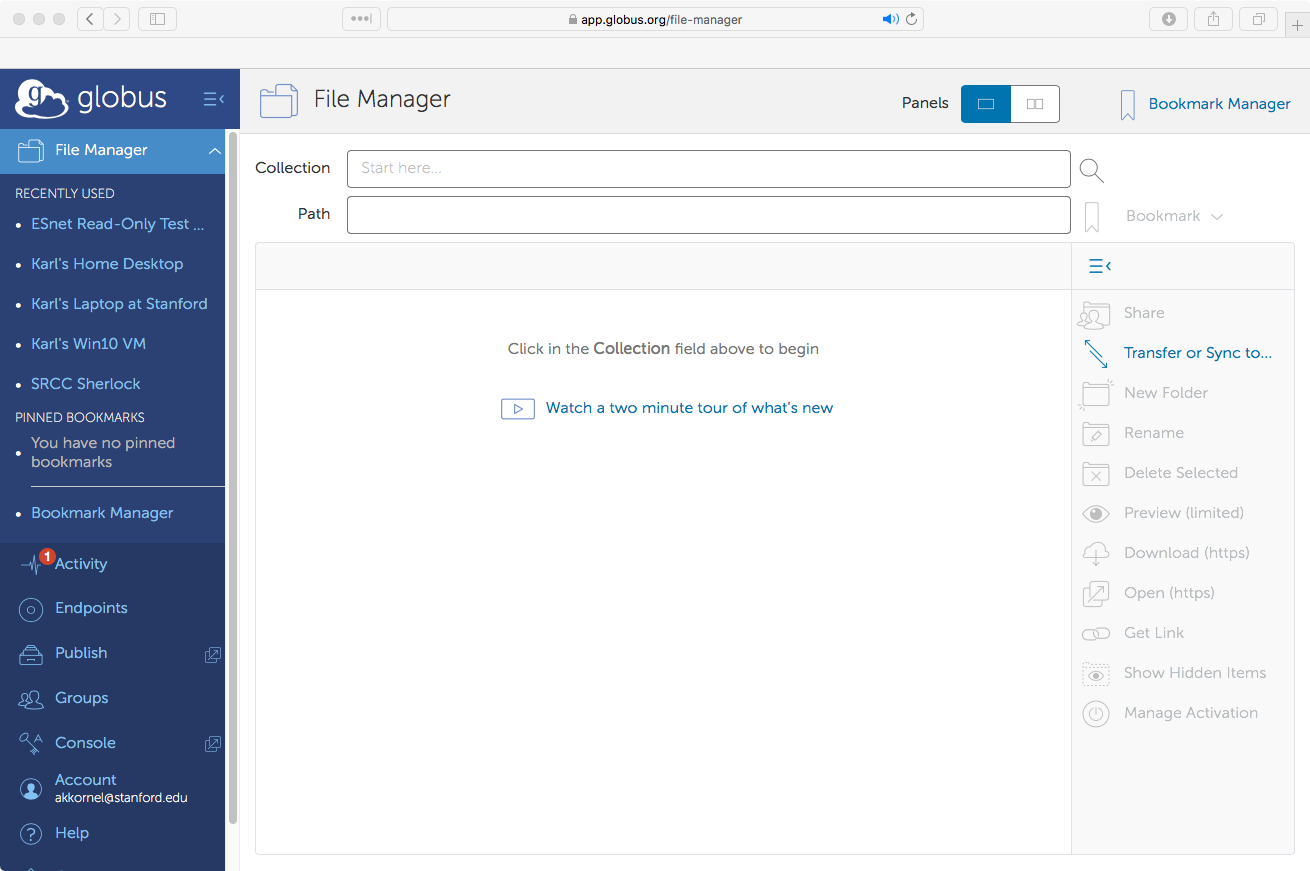
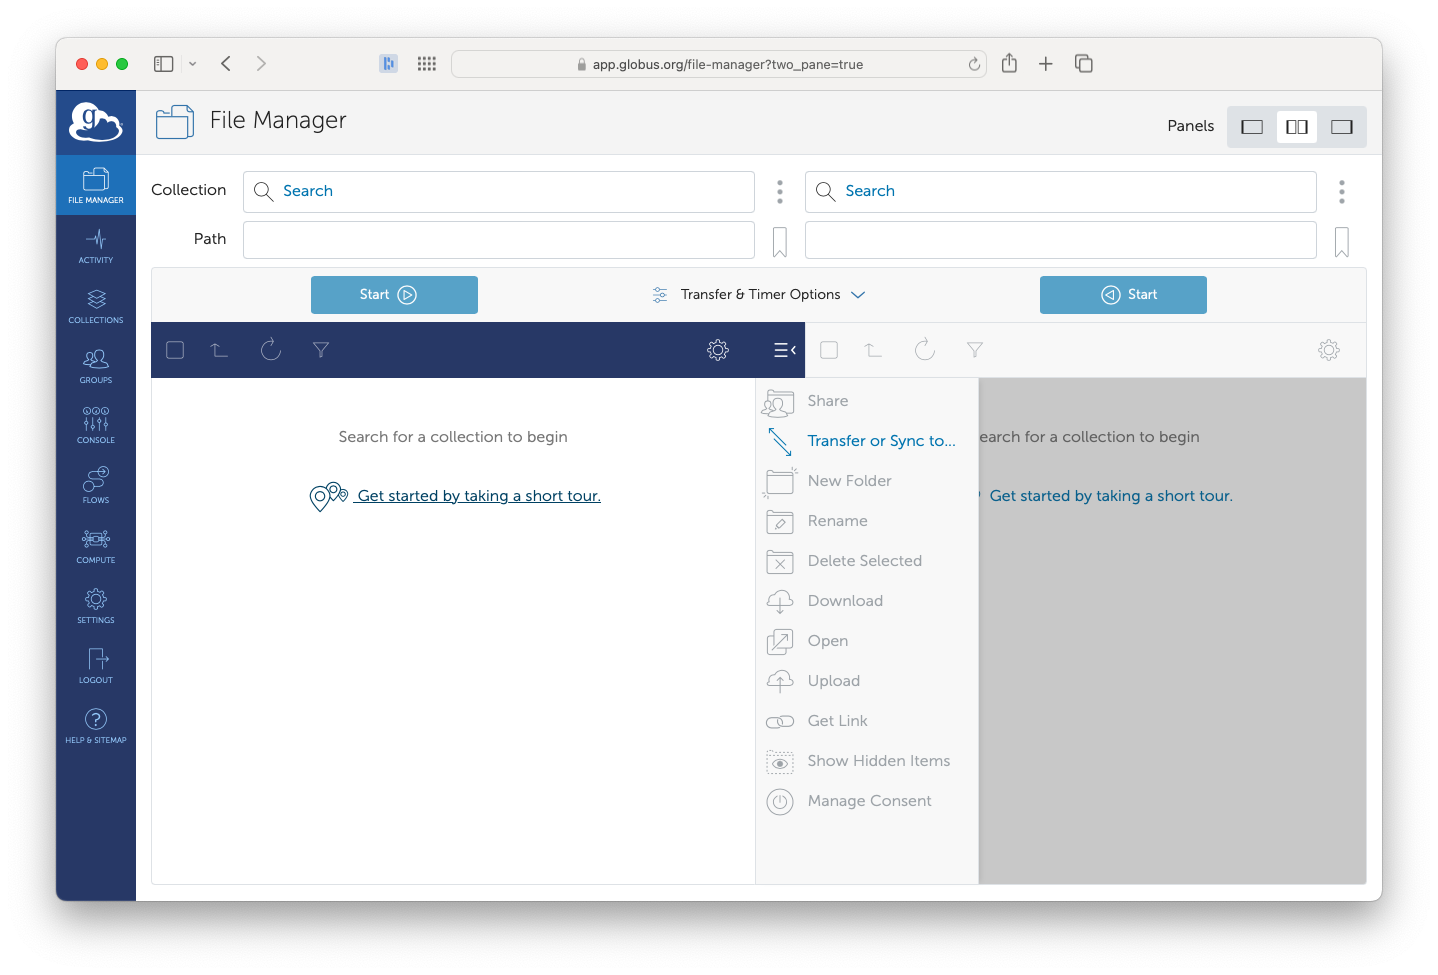
Accounts: Update images, and accompanying text
The Globus web app has gone through some UI changes.  This commit
updates a number of Account-related images, and the text referencing
those images.

diff --git a/accounts/unlink.md b/accounts/unlink.md
@@ -29,42 +29,49 @@ When you do find yourself needing to unlink an identity, follow this procedure.
 %}
 
 To unlink an identity, [log in to Globus](https://app.globus.org/)
-and click on the **<i class="fas fa-user-circle"></i> Account** link (near the bottom-right corner of the page).
+and click on the **<i class="fas fa-user-circle"></i> Settings** button (on the
+left-side column of buttons, near the bottom).
 
 {% include hero-image.html
    src="/assets/accounts/TransferPage.png"
    alt="Globus transfer screen"
    caption-overlay=true
    caption-header="The Globus 'Transfer Files' screen"
-   caption-text="The 'Account' link is in the bottom-left corner of the page."
+   caption-text="The 'Settings' button is near the bottom-left corner of the page."
 %}
 
-The Account page displays your primary and linked identities.  Near the
-upper-right of the page, locate and click on the **<i class="fas fa-id-card"></i> Manage Identities** link.
+On the Settings page will be a list of your identities, both primary and
+linked.  Your primary identity will have a <i class="fas fa-crown"
+title="crown"></i> symbol next to it.
 
 {% include hero-image.html
    src="/assets/accounts/AccountManagement.png"
    alt="Globus transfer screen"
    caption-overlay=true
-   caption-header="The Globus 'Account' screen"
-   caption-text="The 'Manage Your Identities' link is in the upper-right quadrant of the screen."
+   caption-header="The Globus Settings page, showing the Account tab"
+   caption-text="This user has four identities.  'akkornel@stanford.edu' is the
+   primary identity; the others are linked identities."
 %}
 
+Although this page lists your identities, it does not allow you to manage them.
+To manage your identities, click on the **Manage Identities** button (on the
+top-right part of the page).
+
 You will be taken to a page listing all of your identities.  Each linked
-identity will have a large <i class="fas fa-times" title="letter X"></i> to the
+identity will have a <i class="fas fa-trash-alt" title="trash can"></i> to the
 right of the identity.
 
 {% include hero-image.html
    src="/assets/accounts/Identities.png"
    alt="Globus account identities screen"
    caption-overlay=true
-   caption-header="The Globus 'Identities' list"
-   caption-text="Click on the letter X to delete an identity."
+   caption-header="The Globus Manage Identities page"
+   caption-text="Click on the trash can to delete an identity."
 %}
 
 Locate the identity you wish to remove, and click on the <i class="fas
-fa-times" title="letter X"></i>.  You will then be asked if you are sure about
-unlinking the identity.
+fa-trash-alt" title="trash can"></i>.  You will then be asked if you are sure
+about unlinking the identity.
 
 {% include hero-image.html
    src="/assets/accounts/UnlinkingConfirmation.png"
@@ -102,22 +109,29 @@ this whenever you change your primary institutional affiliation.
    content="The steps below will cause all transfer and endpoint history to be lost.  Endpoints will also be deactivated, so you will have to sign into them again.  You should make a note of endpoints that you do not control, but which you have recently used, to reactivate them later."
 %}
 
-### Step 1: Check Your Endpoints
+### Step 1a: Check Your Admin Access
 
-Check all of the endpoints (including shared endpoints) you administer, making sure that your
-_current_ primary identity is on the list of administrators.  Globus Connect
-Personal endpoints—and shared endpoints created from Globus Connect Personal
-endpoints—are excluded from this step, because they can not have multiple
-administrators.
+If you are an owner or administrator of any Globus Connect Server endpoints, or
+of any Mapped Collections, consider adding a coworker (or a Globus Group
+containing one or more coworkers) as an Administrator.  This will ensure admin
+access can be maintained during the transition.
 
 {% include hero-image.html
    src="/assets/server/EndpointRoles.png"
-   alt="A Globus Connect Personal endpoint, showing the list of roles."
+   alt="A Globus Connect Server endpoint, showing the list of roles."
    caption-overlay=false
-   caption-header="An example Globus Connect Personal endpoint"
+   caption-header="An example Globus Connect Server endpoint"
    caption-text="This is where you should check administrators.  This is a
-   Globus Connect Personal endpoint, so only one administrator is allowed."
+   Globus Connect Server endpoint, with multiple administrators."
 %}
+
+### Step 1b: Check Your GCP
+
+If you are running Globus Connect Personal (GCP), it will remain associated
+with whichever Globus Identity you selected when you installed it.  It is not
+possible to change the ownership of a Globus Connect Personal installation, so
+if you want it associated with a new owner, you will have to do a fresh
+installation of GCP.
 
 ### Step 2: Unlink All Linked Identities
 
@@ -142,12 +156,7 @@ to link all of your other identities to your new primary identity.
 
 ### Step 5: Log in to Third-Party Sites
 
-If you had any third-party sites or program that used your Globus credentials,
+If you had any third-party sites or programs that used your Globus credentials,
 you will need to log back in to them, so that fetch new Globus credentials.
 
-Congratulations, the identity-demotion process is complete!  You may now
-re-activate endpoints, and return to normal life.
-
-
-
-
+Congratulations, the identity-demotion process is complete!

diff --git a/accounts/link.md b/accounts/link.md
@@ -35,31 +35,34 @@ are not already logged in, then you will be presented with the login page:
    caption-text=""
 %}
 
-Log in as normal, and you will arrive at the transfer page:
+Log in as normal, and you will arrive at the File Manager:
 
 {% include hero-image.html
    src="/assets/accounts/TransferPage.png"
    alt="Globus transfer screen"
    caption-overlay=true
-   caption-header="The Globus 'Transfer Files' screen"
+   caption-header="The Globus File Manager"
    caption-text=""
 %}
 
-Click on the **<i class="fas fa-user-circle"></i> Account** option (near the bottom-left corner of the page).  This will
-take you to the Account Management page:
+Click on the **<i class="fas fa-cog"></i> Settings** button (near the
+bottom-left corner of the page).  This will take you to the Account tab on the
+Settings page:
 
 {% include hero-image.html
    src="/assets/accounts/AccountManagement.png"
    alt="Globus Account Management"
    caption-overlay=true
    caption-header="Account Management"
-   caption-text="All linked identites, and Globus Plus status, are displayed here."
+   caption-text="Your primary and all linked identites are displayed here."
 %}
 
-The Account Management page displays your current primary identity (likely your
+The Account tab displays your current primary identity (likely your
 Stanford identity) and any linked identites.
 
-To link a new identity, click on **<i class="fas fa-id-card"></i><i class="fas fa-plus-circle"></i> Link Another Identity**, on the right of the page.
+To link a new identity, click on the **<i class="fas fa-id-card"></i><i
+class="fas fa-plus-circle"></i> Link Another Identity** button (located near
+the top-right of the page).
 
 {% include hero-image.html
    src="/assets/accounts/AddLinkedIdentity.png"
@@ -77,16 +80,4 @@ with the newly-linked identity listed in the _linked identities_ section.
    icon="exclamation-triangle"
    header="Identities cannot be double-linked"
    content="If you want to 'move' a linked identity, you will need to un-link the identity from the 'losing' primary, before you link it to the 'gaining' primary."
-%}
-
-
-
-
-
-<a name="example"></a>
-{% include hero-image.html
-   src="/assets/accounts/IdentityDiagram.svg"
-   alt="A diagram of one human with a Stanford account, a Google account, and an Ohio State account."
-   caption-header="Three accounts, one identity"
-   caption-text="This person has accounts at two instutions, plus Google, but Globus recognizes this as one Human."
 %}

diff --git a/accounts/leaving.md b/accounts/leaving.md
@@ -69,28 +69,24 @@ Globus account.
 
 ### Step 1: Check Transfers
 
-First, you should check on the endpoints you administer.  [Log in to Globus](https://www.globus.org/app/transfer), and you will be taken to the transfer page.
+First, you should check on the endpoints you administer.  [Log in to Globus](https://www.globus.org/app/transfer), and you will be taken to the File Manager.
 
 {% include hero-image.html
    src="/assets/accounts/TransferPage.png"
-   alt="Globus 'Transfer' page"
-   caption-overlay=true
-   caption-header=""
-   caption-text=""
+   alt="Globus File Manager"
 %}
 
-In the left-side menu is the **Activity** option.  If any transfers are
+In the left-side menu is the **Activity** button.  If any transfers are
 in progress, a number will appear on top of the icon.  You should only continue
 when there are no transfers in progress.
 
-### Step 2: Uninstall Globus Connect
+### Step 2: Uninstall Globus Connect software
 
 If you have Globus Connect Personal installed on any computers, uninstall the
 software now.
 
 If you administer any Globus Connect Server instances, and you are planning on
-deleting those as well, uninstall the `globus-connect-server` package from the
-server.
+deleting those as well, uninstall Globus Connect Server.
 
 {% include info-box.html
    icon="asterisk"
